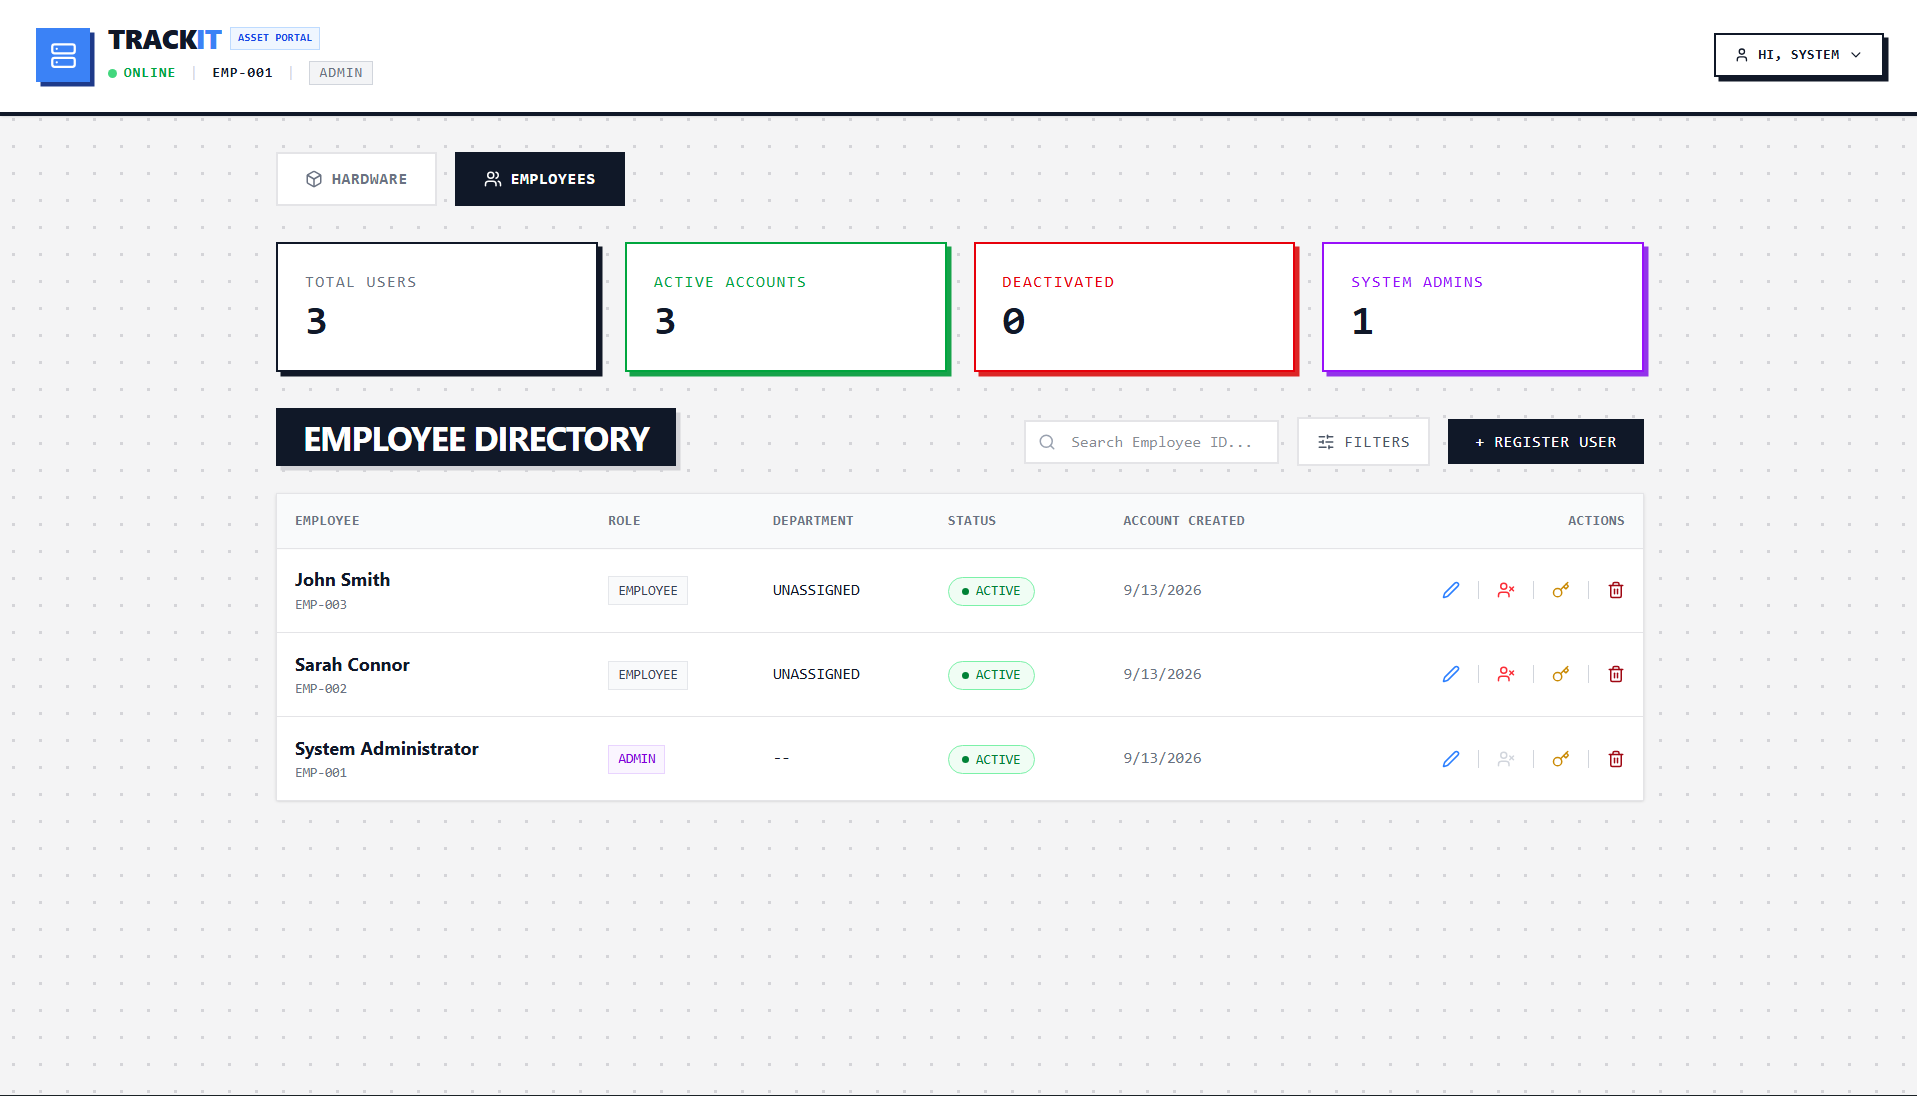
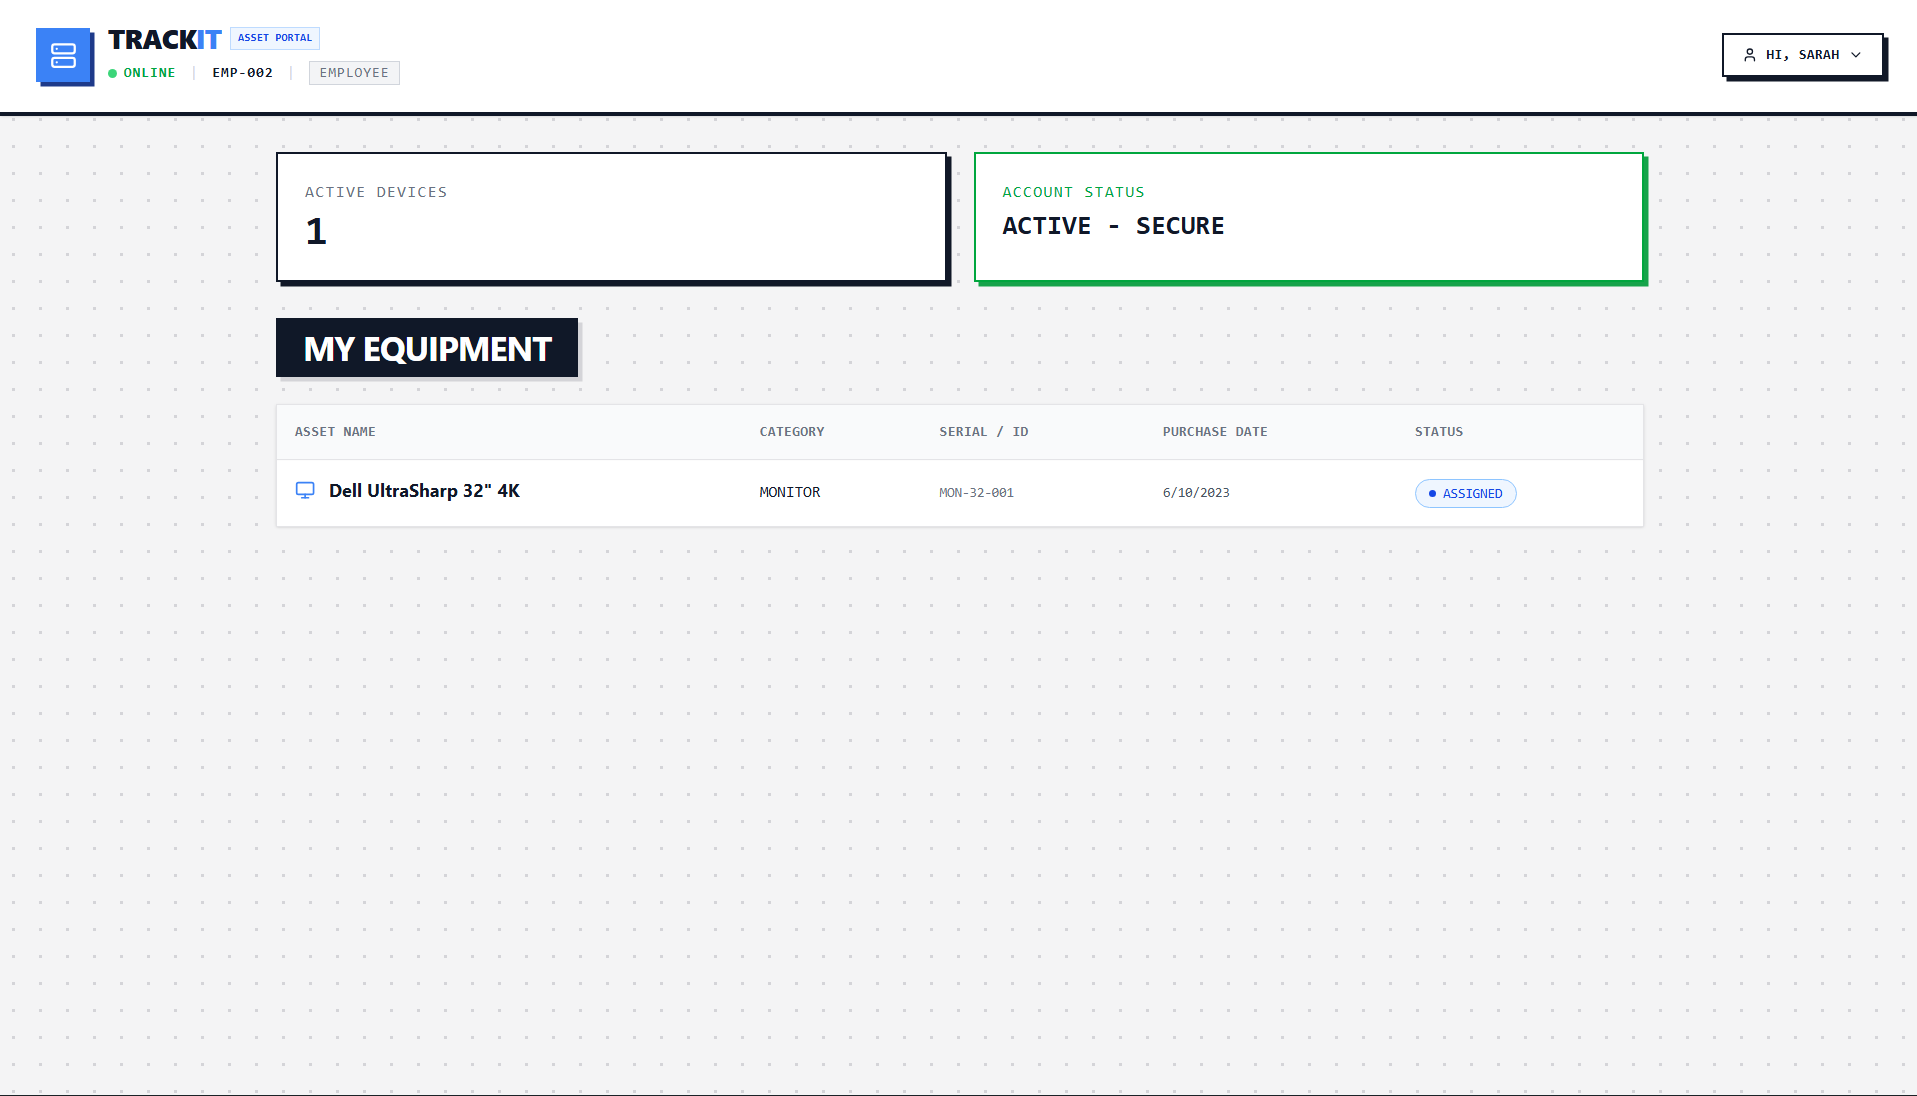
Focus TrackIT and NEU-ARRS galleries on three key screenshots

diff --git a/index.html b/index.html
@@ -278,14 +278,12 @@
               </div>
               <div class="project-gallery" data-project-gallery role="group" aria-roledescription="carousel" aria-label="TrackIT screenshots">
                 <div class="project-img-wrapper" id="trackit-screenshots" data-gallery-viewport>
-                  <div class="project-img-inner carousel-img is-active" role="img" aria-label="TrackIT screenshot 1 of 4" aria-hidden="false"
+                  <div class="project-img-inner carousel-img is-active" role="img" aria-label="TrackIT dashboard, screenshot 1 of 3" aria-hidden="false"
                     data-full-src="/asset-portal-bg-1.png" style="background-image: url('/asset-portal-bg-1.png');"></div>
-                  <div class="project-img-inner carousel-img" role="img" aria-label="TrackIT screenshot 2 of 4" aria-hidden="true"
+                  <div class="project-img-inner carousel-img" role="img" aria-label="TrackIT hardware inventory, screenshot 2 of 3" aria-hidden="true"
                     data-full-src="/asset-portal-bg-2.png" style="background-image: url('/asset-portal-bg-2.png');"></div>
-                  <div class="project-img-inner carousel-img" role="img" aria-label="TrackIT screenshot 3 of 4" aria-hidden="true"
+                  <div class="project-img-inner carousel-img" role="img" aria-label="TrackIT employee equipment view, screenshot 3 of 3" aria-hidden="true"
                     data-full-src="/asset-portal-bg-3.png" style="background-image: url('/asset-portal-bg-3.png');"></div>
-                  <div class="project-img-inner carousel-img" role="img" aria-label="TrackIT screenshot 4 of 4" aria-hidden="true"
-                    data-full-src="/asset-portal-bg-4.png" style="background-image: url('/asset-portal-bg-4.png');"></div>
                   <div class="scanner-overlay" aria-hidden="true"></div>
                   <button type="button" class="gallery-expand" data-gallery-expand aria-label="Expand TrackIT screenshot" aria-haspopup="dialog" aria-controls="screenshot-viewer" hidden>
                     <span aria-hidden="true"><svg width="16" height="16" viewBox="0 0 24 24" fill="none" stroke="currentColor" stroke-width="1.8" stroke-linecap="square"><path d="M8 3H3v5M16 3h5v5M21 16v5h-5M8 21H3v-5" /></svg></span>
@@ -293,7 +291,7 @@
                 </div>
                 <div class="gallery-controls" hidden>
                   <button type="button" class="gallery-button" data-gallery-prev aria-label="Previous TrackIT screenshot" aria-controls="trackit-screenshots">&larr;</button>
-                  <span class="mono gallery-counter" data-gallery-counter role="status" aria-live="polite" aria-atomic="true">01 / 04</span>
+                  <span class="mono gallery-counter" data-gallery-counter role="status" aria-live="polite" aria-atomic="true">01 / 03</span>
                   <button type="button" class="gallery-button" data-gallery-next aria-label="Next TrackIT screenshot" aria-controls="trackit-screenshots">&rarr;</button>
                 </div>
               </div>
@@ -326,16 +324,12 @@
               </div>
               <div class="project-gallery" data-project-gallery role="group" aria-roledescription="carousel" aria-label="NEU-ARRS screenshots">
                 <div class="project-img-wrapper" id="neu-arrs-screenshots" data-gallery-viewport>
-                  <div class="project-img-inner carousel-img is-active" role="img" aria-label="NEU-ARRS screenshot 1 of 5" aria-hidden="false"
+                  <div class="project-img-inner carousel-img is-active" role="img" aria-label="NEU-ARRS student dashboard, screenshot 1 of 3" aria-hidden="false"
                     data-full-src="/neu-arrs-bg-1.png" style="background-image: url('/neu-arrs-bg-1.png');"></div>
-                  <div class="project-img-inner carousel-img" role="img" aria-label="NEU-ARRS screenshot 2 of 5" aria-hidden="true"
+                  <div class="project-img-inner carousel-img" role="img" aria-label="NEU-ARRS registrar request queue, screenshot 2 of 3" aria-hidden="true"
                     data-full-src="/neu-arrs-bg-2.png" style="background-image: url('/neu-arrs-bg-2.png');"></div>
-                  <div class="project-img-inner carousel-img" role="img" aria-label="NEU-ARRS screenshot 3 of 5" aria-hidden="true"
+                  <div class="project-img-inner carousel-img" role="img" aria-label="NEU-ARRS document management, screenshot 3 of 3" aria-hidden="true"
                     data-full-src="/neu-arrs-bg-3.png" style="background-image: url('/neu-arrs-bg-3.png');"></div>
-                  <div class="project-img-inner carousel-img" role="img" aria-label="NEU-ARRS screenshot 4 of 5" aria-hidden="true"
-                    data-full-src="/neu-arrs-bg-4.png" style="background-image: url('/neu-arrs-bg-4.png');"></div>
-                  <div class="project-img-inner carousel-img" role="img" aria-label="NEU-ARRS screenshot 5 of 5" aria-hidden="true"
-                    data-full-src="/neu-arrs-bg-5.png" style="background-image: url('/neu-arrs-bg-5.png');"></div>
                   <div class="scanner-overlay" aria-hidden="true"></div>
                   <button type="button" class="gallery-expand" data-gallery-expand aria-label="Expand NEU-ARRS screenshot" aria-haspopup="dialog" aria-controls="screenshot-viewer" hidden>
                     <span aria-hidden="true"><svg width="16" height="16" viewBox="0 0 24 24" fill="none" stroke="currentColor" stroke-width="1.8" stroke-linecap="square"><path d="M8 3H3v5M16 3h5v5M21 16v5h-5M8 21H3v-5" /></svg></span>
@@ -343,7 +337,7 @@
                 </div>
                 <div class="gallery-controls" hidden>
                   <button type="button" class="gallery-button" data-gallery-prev aria-label="Previous NEU-ARRS screenshot" aria-controls="neu-arrs-screenshots">&larr;</button>
-                  <span class="mono gallery-counter" data-gallery-counter role="status" aria-live="polite" aria-atomic="true">01 / 05</span>
+                  <span class="mono gallery-counter" data-gallery-counter role="status" aria-live="polite" aria-atomic="true">01 / 03</span>
                   <button type="button" class="gallery-button" data-gallery-next aria-label="Next NEU-ARRS screenshot" aria-controls="neu-arrs-screenshots">&rarr;</button>
                 </div>
               </div>
